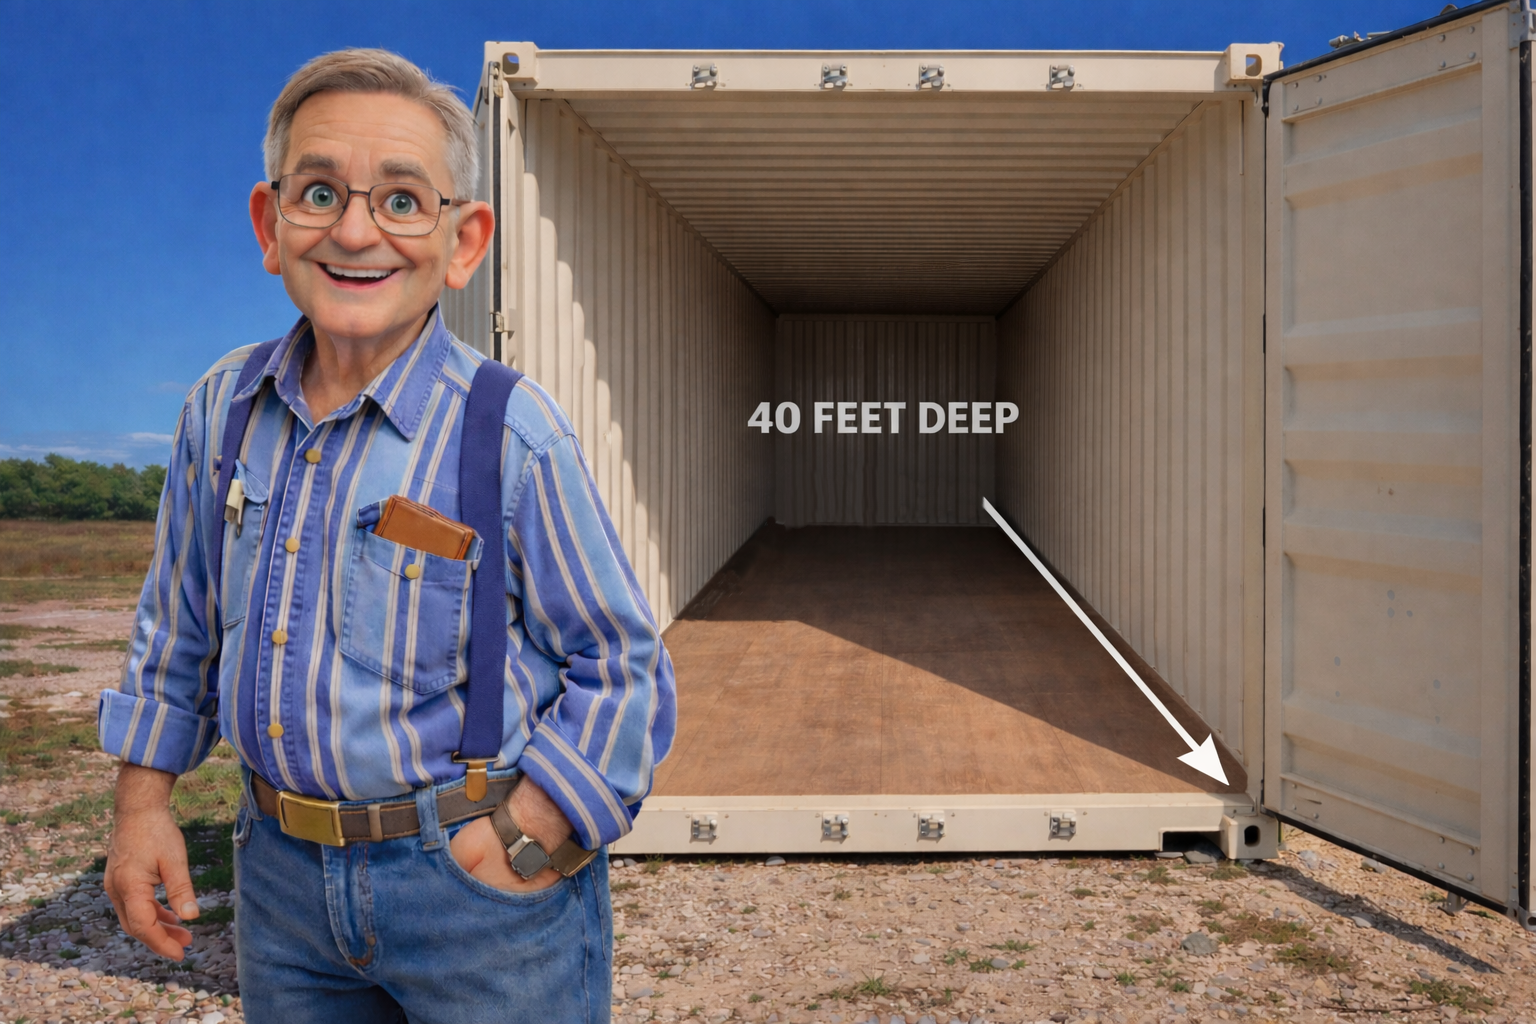
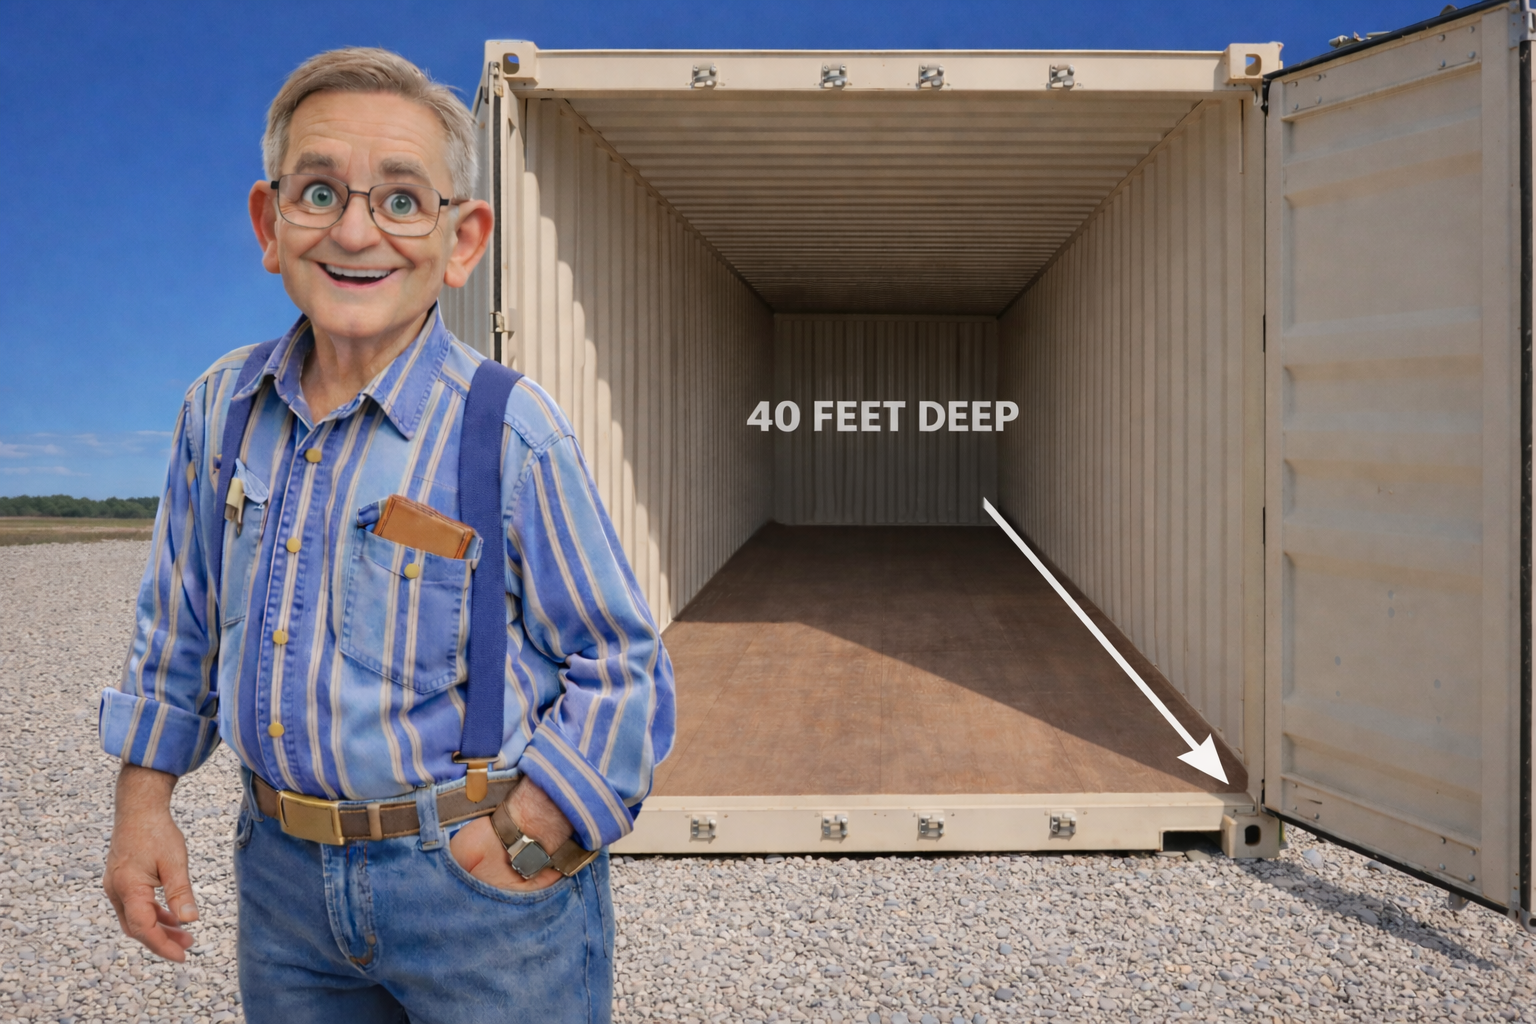
k

diff --git a/index.html b/index.html
@@ -258,7 +258,7 @@
    <div class="wood-corner bottom-right"></div>
    
    <div class="video-wrapper">
-   <iframe width="560" height="315" src="https://www.youtube.com/embed/UvE7mcckIuw?si=-5iiKUyjZicn0SU2" title="YouTube video player" frameborder="0" allow="accelerometer; autoplay; clipboard-write; encrypted-media; gyroscope; picture-in-picture; web-share" referrerpolicy="strict-origin-when-cross-origin" allowfullscreen></iframe>
+   <iframe width="560" height="315" src="https://www.youtube.com/embed/1jlR7pYHKec?si=a4mSoMMx7Jr7vVCr" title="YouTube video player" frameborder="0" allow="accelerometer; autoplay; clipboard-write; encrypted-media; gyroscope; picture-in-picture; web-share" referrerpolicy="strict-origin-when-cross-origin" allowfullscreen></iframe>
    </div>
    </div>
    </div>
